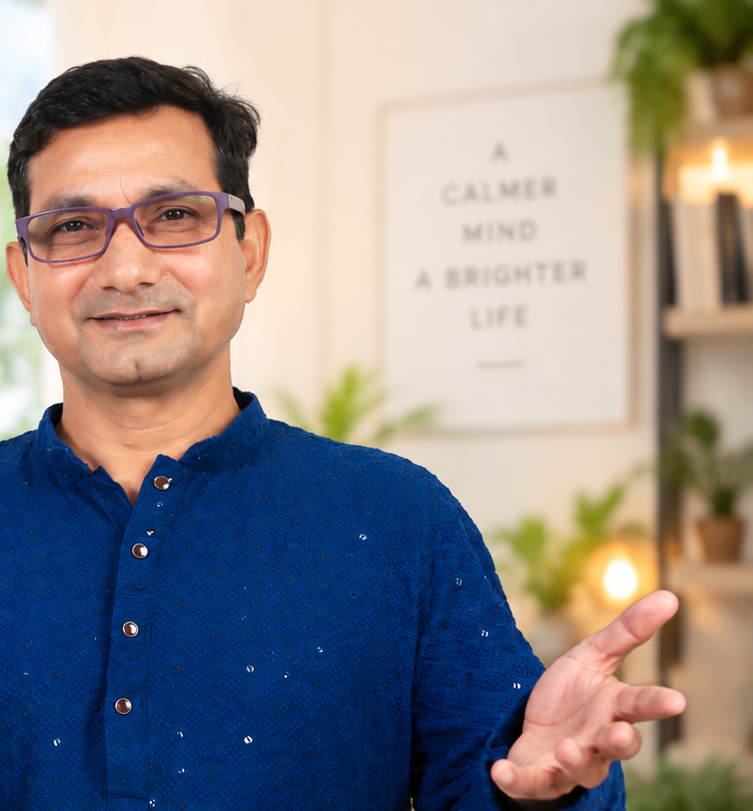
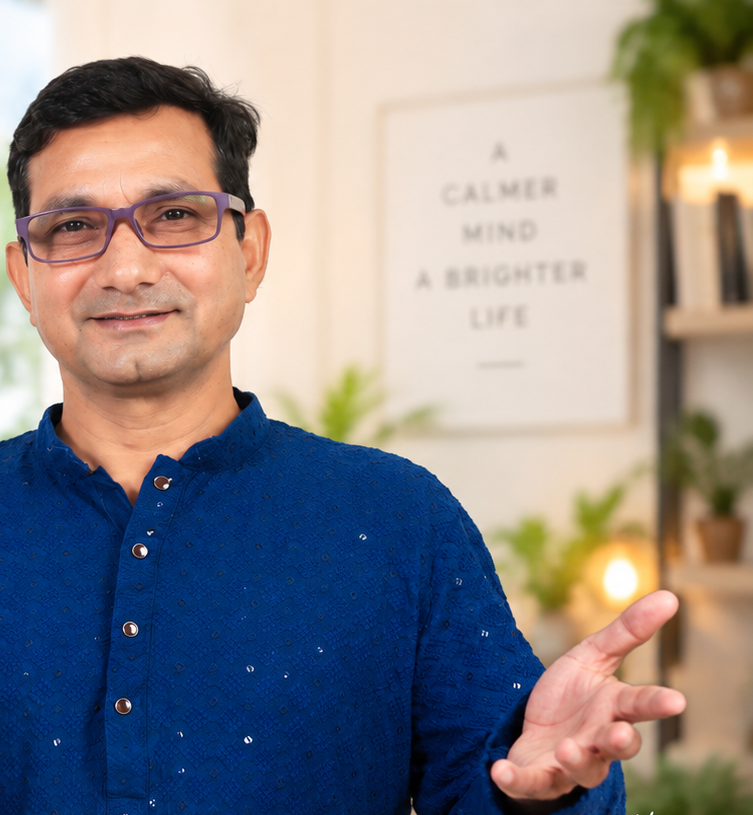
Fix founder portrait framing and WhatsApp overlap

diff --git a/src/components/WhatsAppWidget.tsx b/src/components/WhatsAppWidget.tsx
@@ -28,6 +28,22 @@ type WhatsAppWidgetProps = {
   // never removed) — see QsrWhatsAppWidget.tsx for the one page that
   // opts into this.
   autoDismissBubbleMs?: number;
+  // Hero-Clear Reveal™ — on pages whose hero includes a right-aligned
+  // founder portrait, this fixed bottom-right widget can land directly
+  // over the portrait's lower-right corner (confirmed on the homepage —
+  // at 1024x768 the widget's top edge overlapped the portrait's bottom
+  // edge by ~13px, right over the hand; on a 390px-wide mobile viewport
+  // the stacked text-then-portrait layout is much taller, so a single
+  // fixed pixel threshold that clears desktop still lands the widget on
+  // top of the portrait on mobile). The widget measures the bottom edge
+  // of the element with this id (both pages' hero <section> already use
+  // id="top") on mount/resize and stays hidden — same fade as the sticky
+  // bars elsewhere on this site — until scrolled a bit past it. Falls
+  // back to revealAfterScrollPx (or stays hidden) if the element isn't
+  // found. Undefined (the default) preserves today's always-visible
+  // behavior everywhere else this widget is used.
+  revealAfterElementId?: string;
+  revealAfterScrollPx?: number;
 };
 
 // Floating WhatsApp Widget™ — fixed to the viewport (outside <main>'s
@@ -53,9 +69,37 @@ export default function WhatsAppWidget({
   bottomClassName = "bottom-16 sm:bottom-7",
   analyticsLocation,
   autoDismissBubbleMs,
+  revealAfterElementId,
+  revealAfterScrollPx,
 }: WhatsAppWidgetProps): React.JSX.Element {
   const { t } = useLanguage();
   const [bubbleDismissed, setBubbleDismissed] = useState(false);
+  const revealDisabled = revealAfterElementId === undefined && revealAfterScrollPx === undefined;
+  const [revealed, setRevealed] = useState(revealDisabled);
+
+  useEffect(() => {
+    if (revealDisabled) return undefined;
+
+    function isPastHero(): boolean {
+      const el = revealAfterElementId !== undefined ? document.getElementById(revealAfterElementId) : null;
+      // Fully out of view (bottom edge above the viewport top) — the
+      // strongest guarantee that the widget can never coincide with it,
+      // regardless of viewport height or how tall the hero renders.
+      if (el !== null) return el.getBoundingClientRect().bottom <= 0;
+      return window.scrollY > (revealAfterScrollPx ?? Infinity);
+    }
+
+    function handleScroll(): void {
+      setRevealed(isPastHero());
+    }
+    handleScroll();
+    window.addEventListener("scroll", handleScroll, { passive: true });
+    window.addEventListener("resize", handleScroll, { passive: true });
+    return () => {
+      window.removeEventListener("scroll", handleScroll);
+      window.removeEventListener("resize", handleScroll);
+    };
+  }, [revealDisabled, revealAfterElementId, revealAfterScrollPx]);
 
   useEffect(() => {
     if (autoDismissBubbleMs === undefined) return undefined;
@@ -79,7 +123,11 @@ export default function WhatsAppWidget({
   }, [autoDismissBubbleMs]);
 
   return (
-    <div className={`fixed right-5 z-50 flex flex-col items-end gap-3 sm:right-7 ${bottomClassName}`}>
+    <div
+      className={`fixed right-5 z-50 flex flex-col items-end gap-3 transition-opacity duration-300 sm:right-7 ${bottomClassName} ${
+        revealed ? "opacity-100" : "pointer-events-none opacity-0"
+      }`}
+    >
       {!bubbleDismissed && (
         // Mobile QA™ — hidden below sm: on a typical phone viewport this
         // bubble sat directly over the hero's primary CTA button on

diff --git a/src/components/HeroSection.tsx b/src/components/HeroSection.tsx
@@ -90,30 +90,32 @@ export default function HeroSection(): React.JSX.Element {
         </div>
 
         {/* portrait card */}
-        <div className="relative mx-auto w-full max-w-[340px] lg:mx-0 lg:ml-auto">
-          <div className="relative overflow-hidden rounded-sm border border-line-strong bg-transparent">
-            <div className="relative aspect-[753/811] w-full">
+        <div className="relative mx-auto w-full max-w-[360px] lg:mx-0 lg:ml-auto">
+          <div className="relative overflow-hidden rounded-sm border border-line-strong bg-panel2">
+            <div className="relative aspect-[753/815] w-full">
               {/* Approved Founder Asset™ — dr-kapil-home-hero-portrait.png
-                  is a plain rectangular crop of the real supplied file
-                  (dr-kapil-home-hero.png.png, untouched, unchanged, still
-                  on disk exactly as delivered). That source is a full
-                  1672x941 marketing composition with its own baked-in
-                  logo/headline/CTA on the left half and a "More Within
-                  You" signature bottom-right — this crop (x:919-1672,
-                  y:0-811) keeps only the photographed founder, his whole
-                  gesturing hand with clean margin, and excludes both the
-                  left-side text/CTA and the bottom-right signature. No
-                  AI involved — a single mechanical crop, same category as
-                  the object-position cropping already used elsewhere on
-                  this site; the aspect-ratio here matches the crop's exact
-                  pixel dimensions 1:1, so object-cover performs no further
-                  cropping at all. */}
+                  is a crop of the real supplied file (dr-kapil-home-hero
+                  .png.png, untouched, unchanged, still on disk exactly as
+                  delivered). That source is a full 1672x941 marketing
+                  composition with its own baked-in logo/headline/CTA on
+                  the left half and a "More Within You" signature
+                  bottom-right — this crop (x:919-1672, y:0-815) keeps
+                  only the photographed founder with his full gesturing
+                  hand and genuine breathing room beneath it (the source
+                  photo's own signature overlay sits immediately below
+                  that, at y:820+, so 815 is the tallest crop that shows
+                  the complete hand without also revealing it). No AI
+                  involved — a single mechanical crop. The aspect-ratio
+                  below matches these exact pixel dimensions and
+                  object-contain is used (not object-cover) specifically
+                  so the browser can never crop any further, at any
+                  container width — the full portrait is always visible. */}
               <Image
                 src="/dr-kapil-home-hero-portrait.png"
                 alt={t.hero.portraitName}
                 fill
-                sizes="(min-width: 1024px) 340px, 80vw"
-                className="object-cover"
+                sizes="(min-width: 1024px) 360px, 85vw"
+                className="object-contain"
                 priority
               />
             </div>

diff --git a/src/components/prefrontal-power/PrefrontalPowerHero.tsx b/src/components/prefrontal-power/PrefrontalPowerHero.tsx
@@ -70,15 +70,20 @@ export default function PrefrontalPowerHero(): React.JSX.Element {
           </div>
         </div>
 
-        <div className="relative mx-auto w-full max-w-[320px] lg:mx-0 lg:max-w-none lg:justify-self-end">
-          <div className="relative aspect-[580/820] w-full max-w-[360px] overflow-hidden rounded-sm border border-line-strong bg-panel2 shadow-[0_28px_60px_rgba(34,31,29,0.14)] lg:ml-auto">
+        <div className="relative mx-auto w-full max-w-[300px] lg:mx-0 lg:max-w-none lg:justify-self-end">
+          {/* aspect-[580/1020] matches dr-kapil-prefrontal-hero-portrait
+              .png's exact crop dimensions (a crop of the approved
+              dr-kapil-about.png.png, x:500-1080, y:0-1020 — head to
+              lap, hand resting naturally, no baked-in text/signature)
+              so object-contain never has to crop anything further. */}
+          <div className="relative aspect-[580/1020] w-full max-w-[340px] overflow-hidden rounded-sm border border-line-strong bg-panel2 shadow-[0_28px_60px_rgba(34,31,29,0.14)] lg:ml-auto">
             <Image
               src="/dr-kapil-prefrontal-hero-portrait.png"
               alt="Dr. Kapil Sharma, trainer of PREfrontal POWER"
               fill
               priority
-              sizes="(min-width: 1024px) 360px, (min-width: 640px) 320px, 80vw"
-              className="object-cover"
+              sizes="(min-width: 1024px) 340px, (min-width: 640px) 300px, 78vw"
+              className="object-contain"
             />
           </div>
           <div

diff --git a/src/app/(marketing)/page.tsx b/src/app/(marketing)/page.tsx
@@ -77,8 +77,17 @@ export default function HomePage(): React.JSX.Element {
           of it persistently covering hero/testimonial content while
           scrolling; the compact button alone remains available. Footer's
           own bottom padding (see Footer.tsx) is what keeps the button
-          clear of the footer's copyright/link row at max scroll. */}
-      <WhatsAppWidget bottomClassName="bottom-24 sm:bottom-7" autoDismissBubbleMs={6000} />
+          clear of the footer's copyright/link row at max scroll.
+          revealAfterElementId="top": measured via Playwright that at
+          1024x768 this widget's fixed bottom-right position overlaps the
+          hero founder portrait's bottom-right corner (the hand) by ~13px
+          — confirmed real, not a false positive. A fixed pixel threshold
+          cleared that breakpoint but still overlapped on mobile (much
+          taller stacked hero) — measuring the actual hero section
+          (id="top") and revealing only once it's fully scrolled out of
+          view removes the overlap at every breakpoint, not just the one
+          it was tuned against. */}
+      <WhatsAppWidget bottomClassName="bottom-24 sm:bottom-7" autoDismissBubbleMs={6000} revealAfterElementId="top" />
     </div>
   )
 }

diff --git a/src/components/prefrontal-power/PrefrontalPowerModules.tsx b/src/components/prefrontal-power/PrefrontalPowerModules.tsx
@@ -27,7 +27,7 @@ export default function PrefrontalPowerModules(): React.JSX.Element {
       <div className="mx-auto max-w-content">
         <div className="mb-4 max-w-xl">
           <h2 className="text-[24px] font-extrabold uppercase leading-tight sm:text-[30px]">This Is Not a Lecture.</h2>
-          <div className="mt-4 flex items-center gap-2 font-mono text-[12px] font-semibold uppercase tracking-[0.05em] text-gold">
+          <div className="mt-4 flex flex-wrap items-center gap-x-2 gap-y-1 font-mono text-[12px] font-semibold uppercase tracking-[0.05em] text-gold">
             Understand <span aria-hidden="true">→</span> Experience <span aria-hidden="true">→</span> Practise{" "}
             <span aria-hidden="true">→</span> Apply
           </div>
